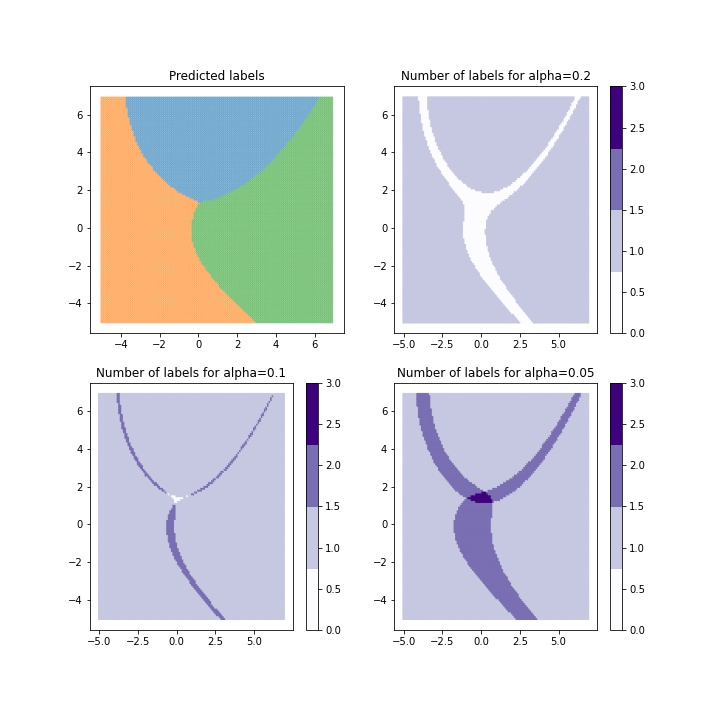
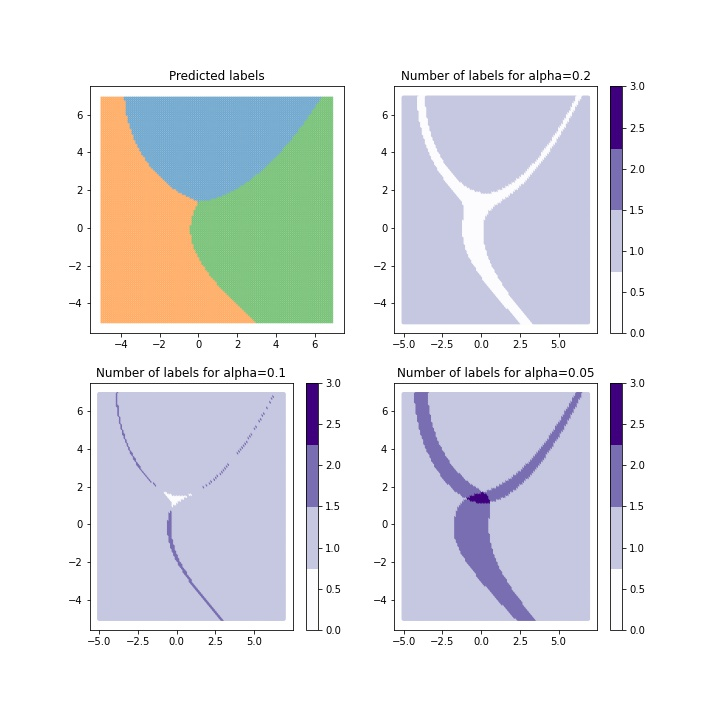
add corrections +

diff --git a/doc/tutorial_classification.rst b/doc/tutorial_classification.rst
@@ -20,7 +20,7 @@ We start by using the softmax score output by the base classifier as the conform
 * First we generate a dataset with train, calibration and test, the model is fitted in the training set.
 * We set the conformal score :math:`S_i = \hat{f}(X_{i})_{y_i}` the softmax output of the true class for each sample in the calibration set.
 * Then we define :math:`\hat{q}` as being the :math:`(n + 1) (\alpha) / n` previous quantile of :math:`S_{1}, ..., S_{n}` (this is essentially the quantile :math:`\alpha`, but with a small sample correction). 
-* Finally, for a new test data point (where :math:`X_{n + 1}` is known but :math:`Y_{n + 1}` is not), create a prediction set :math:`T(X_{n+1}) = \{y: \hat{f}(X_{n+1})_{y} > \hat{q}\}` which includes all the classes with a sufficiently high softmax output.
+* Finally, for a new test data point (where :math:`X_{n + 1}` is known but :math:`Y_{n + 1}` is not), create a prediction set :math:`C(X_{n+1}) = \{y: \hat{f}(X_{n+1})_{y} > \hat{q}\}` which includes all the classes with a sufficiently high softmax output.
 
 We use a two-dimensional dataset with three labels. The distribution of the data is a bivariate normal with diagonal covariance matrices for each label. 
 
@@ -32,14 +32,13 @@ We use a two-dimensional dataset with three labels. The distribution of the data
     x_min, x_max, y_min, y_max, step = -6, 8, -6, 8, 0.1
     n_samples = 500
     n_classes = 3
-    alpha = [0.2, 0.1, 0.05]
     np.random.seed(42)
     X = np.vstack([
         np.random.multivariate_normal(center, cov, n_samples)
         for center, cov in zip(centers, covs)
     ])
     y = np.hstack([np.full(n_samples, i) for i in range(n_classes)])
-    X_train, X_cal, y_train, y_cal = train_test_split(X, y, test_size=0.5)
+    X_train, X_cal, y_train, y_cal = train_test_split(X, y, test_size=0.3)
 
     xx, yy = np.meshgrid(
         np.arange(x_min, x_max, step), np.arange(x_min, x_max, step)
@@ -84,6 +83,7 @@ We then estimate the prediction sets with differents alpha values with a
    y_pred_proba_max = np.max(y_pred_proba, axis=1)
    mapie = MapieClassifier(estimator=clf, cv="prefit")
    mapie.fit(X_cal, y_cal)
+   alpha = [0.2, 0.1, 0.05]
    y_pred_mapie, y_ps_mapie = mapie.predict(X_test, alpha=alpha)
 
 
@@ -98,46 +98,13 @@ We then estimate the prediction sets with differents alpha values with a
     plt.hist(scores, bins='auto')
     i=0         
     for quantile in quantiles:
-        plt.vlines(x = quantile, ymin=0, ymax=600, color = colors[i], linestyles = 'dashed',label=f'alpha = {alphas[i]}') 
+        plt.vlines(x = quantile, ymin=0, ymax=400, color = colors[i], linestyles = 'dashed',label=f'alpha = {alphas[i]}') 
         i=i+1
     plt.title("Distribution of scores")
     plt.legend()
     plt.xlabel("scores")
     plt.ylabel("count")
     plt.show()
-
-   def plot_results(alphas, y_pred_mapie, y_ps_mapie):
-       tab10 = plt.cm.get_cmap('Purples', 4)
-       colors = {0: "#1f77b4", 1: "#ff7f0e", 2:  "#2ca02c", 3: "#d62728"}
-       y_pred_col = list(map(colors.get, y_pred_mapie))
-       fig, [[ax1, ax2], [ax3, ax4]] = plt.subplots(2, 2, figsize=(10, 10))
-       axs = {0: ax1, 1: ax2, 2:  ax3, 3: ax4}
-       axs[0].scatter(
-           X_test[:, 0],
-           X_test[:, 1],
-           color=y_pred_col,
-           marker='.',
-           s=10,
-           alpha=0.4
-       )
-       axs[0].set_title("Predicted labels")
-       for i, alpha in enumerate(alphas):
-           y_pi_sums = y_ps_mapie[:, :, i].sum(axis=1)
-           num_labels = axs[i+1].scatter(
-               X_test[:, 0],
-               X_test[:, 1],
-               c=y_pi_sums,
-               marker='.',
-               s=10,
-               alpha=1,
-               cmap=tab10,
-               vmin=0,
-               vmax=3
-           )
-           cbar = plt.colorbar(num_labels, ax=axs[i+1])
-           coverage= classification_coverage_score(y_pred_mapie,y_ps_mapie[:,:,i])
-           axs[i+1].set_title(f"Number of labels for alpha={alpha_}")
-       plt.show()
 
 Let's see the distribution of the scores with the calculated quantiles.
 
@@ -146,7 +113,7 @@ Let's see the distribution of the scores with the calculated quantiles.
    scores = mapie.scores_
    n = mapie.n_samples_val_
    quantiles = mapie.quantiles_ 
-   plot_scores(n, alphas, scores, quantiles)
+   plot_scores(n, alpha, scores, quantiles)
 
 .. image:: images/tuto_classification_2.jpeg
     :align: center
@@ -157,7 +124,42 @@ We will now compare the differences between the prediction sets of the different
 
 .. code-block:: python
 
-   plot_results(alphas, y_pred_mapie, y_ps_mapie)
+   def plot_results(alphas, y_pred_mapie, y_ps_mapie):
+    tab10 = plt.cm.get_cmap('Purples', 4)
+    colors = {0: "#1f77b4", 1: "#ff7f0e", 2:  "#2ca02c", 3: "#d62728"}
+    y_pred_col = list(map(colors.get, y_pred_mapie))
+    fig, [[ax1, ax2], [ax3, ax4]] = plt.subplots(2, 2, figsize=(10, 10))
+    axs = {0: ax1, 1: ax2, 2:  ax3, 3: ax4}
+    axs[0].scatter(
+       X_test[:, 0],
+       X_test[:, 1],
+       color=y_pred_col,
+       marker='.',
+       s=10,
+       alpha=0.4
+    )
+    axs[0].set_title("Predicted labels")
+    for i, alpha in enumerate(alphas):
+       y_pi_sums = y_ps_mapie[:, :, i].sum(axis=1)
+       num_labels = axs[i+1].scatter(
+           X_test[:, 0],
+           X_test[:, 1],
+           c=y_pi_sums,
+           marker='.',
+           s=10,
+           alpha=1,
+           cmap=tab10,
+           vmin=0,
+           vmax=3
+       )
+       cbar = plt.colorbar(num_labels, ax=axs[i+1])
+       coverage= classification_coverage_score(y_pred_mapie,y_ps_mapie[:,:,i])
+       axs[i+1].set_title(f"Number of labels for alpha={alpha_}")
+    plt.show()
+
+.. code-block:: python
+
+   plot_results(alpha, y_pred_mapie, y_ps_mapie)
 
 .. image:: images/tuto_classification_3.jpeg
     :align: center
